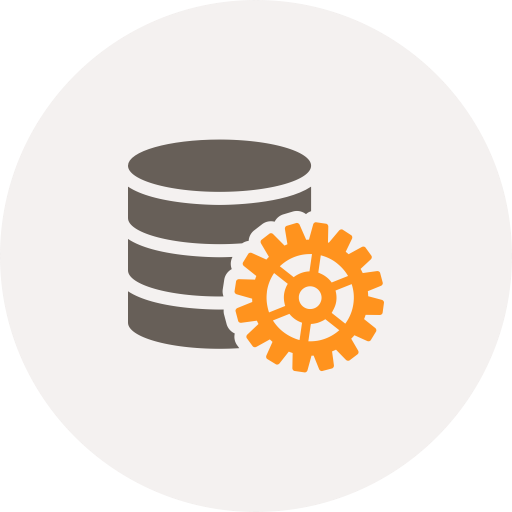
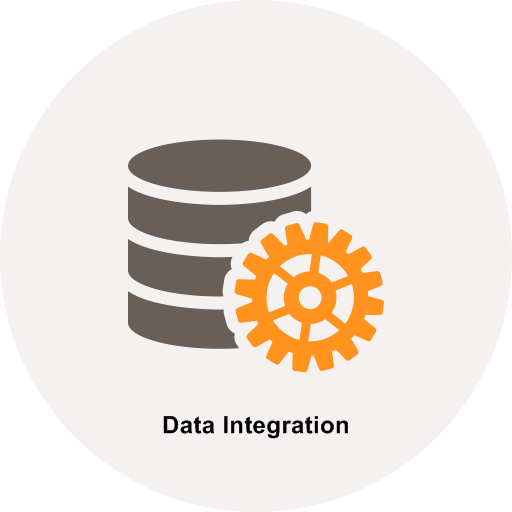
11

Changed region(s): [[0.3125, 0.8125, 0.6875, 0.875]]

diff --git a/index.htm b/index.htm
@@ -76,7 +76,7 @@
                     <div class="intro-text">
                         <h1 class="name">ANALYTICS SERVICES</h1>
                         <hr class="star-light">
-                        <span class="skills">Machine Learning - Data Cleansing - Visualisation</span>
+                        <span class="skills">Machine Learning - Data Integration - Data Visualisation</span>
                     </div>
                 </div>
             </div>
